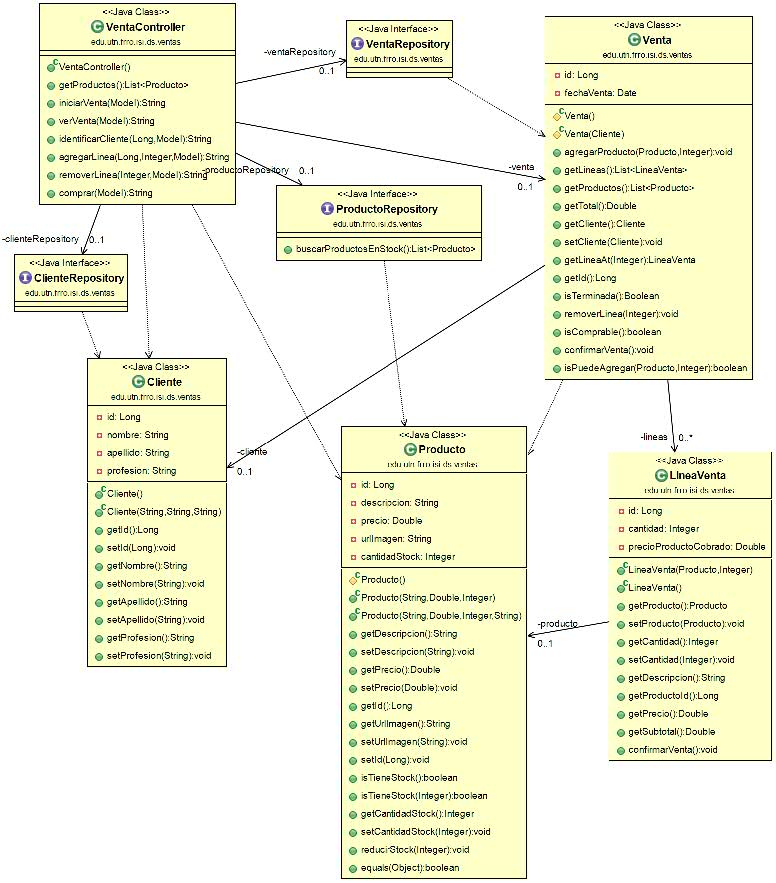
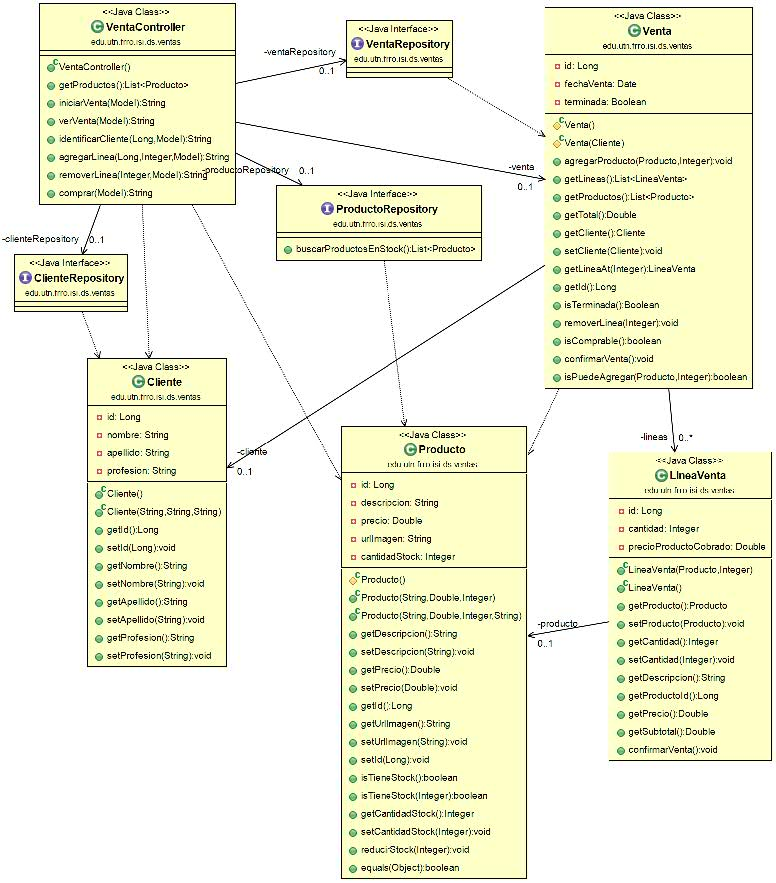
venta finalizada

Changed region(s): [[0.6804, 0.0, 0.9897, 0.4587]]

diff --git a/src/main/java/edu/utn/frro/isi/ds/ventas/Venta.java b/src/main/java/edu/utn/frro/isi/ds/ventas/Venta.java
@@ -32,9 +32,11 @@ public class Venta {
 	
 	@Column(name="fecha_venta", nullable=false)
 	private Date fechaVenta;
+	private Boolean terminada;
 	
 	protected Venta() {
 		this.fechaVenta=new Date();
+		this.terminada = false;
 	}
 
 	protected Venta(Cliente cliente) {
@@ -43,6 +45,9 @@ public class Venta {
 	}
 
 	public void agregarProducto(Producto producto, Integer cantidad) throws RuntimeException {
+		if (isTerminada()) {
+			throw new RuntimeException("La venta está terminada.");
+		}
 		if (getProductos().contains(producto)) {
 			throw new RuntimeException("El producto "+producto.getDescripcion()+ " ya está agregado.");
 		} else if (!isPuedeAgregar(producto, cantidad)) {
@@ -92,7 +97,7 @@ public class Venta {
 	}
 	
 	public Boolean isTerminada() {
-		return id!=null;
+		return this.terminada || id!=null;
 	}
 
 	public void removerLinea(Integer index) {
@@ -110,6 +115,7 @@ public class Venta {
 		for (LineaVenta linea : lineas) {
 			linea.confirmarVenta();
 		}
+		this.terminada=true;
 		
 	}
 

diff --git a/src/test/java/edu/utn/frro/isi/ds/ventas/VentaTest.java b/src/test/java/edu/utn/frro/isi/ds/ventas/VentaTest.java
@@ -67,4 +67,11 @@ public class VentaTest {
 		Double totalDespuesConfirmar = v.getTotal();
 		assertEquals(totalAntesConfirmar, totalDespuesConfirmar);
 	}
+	
+	@Test(expected=RuntimeException.class) public void evitarAgregarLineaEnVentaFinalizada() {
+		v.agregarProducto(p1, 1);
+		v.agregarProducto(p2, 1);
+		v.confirmarVenta();
+		v.agregarProducto(p3, 1);
+	}
 }
